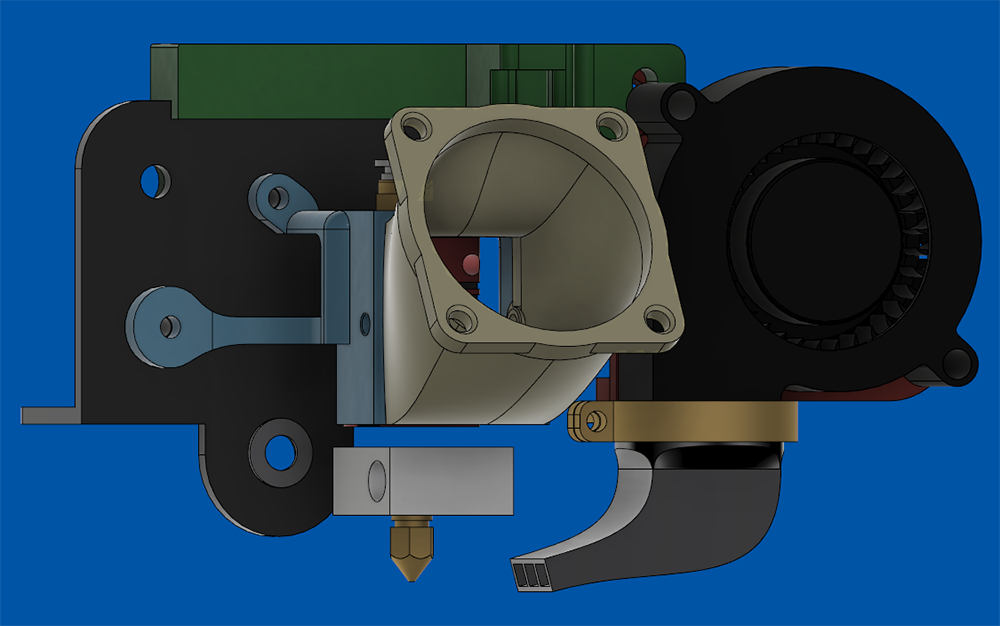
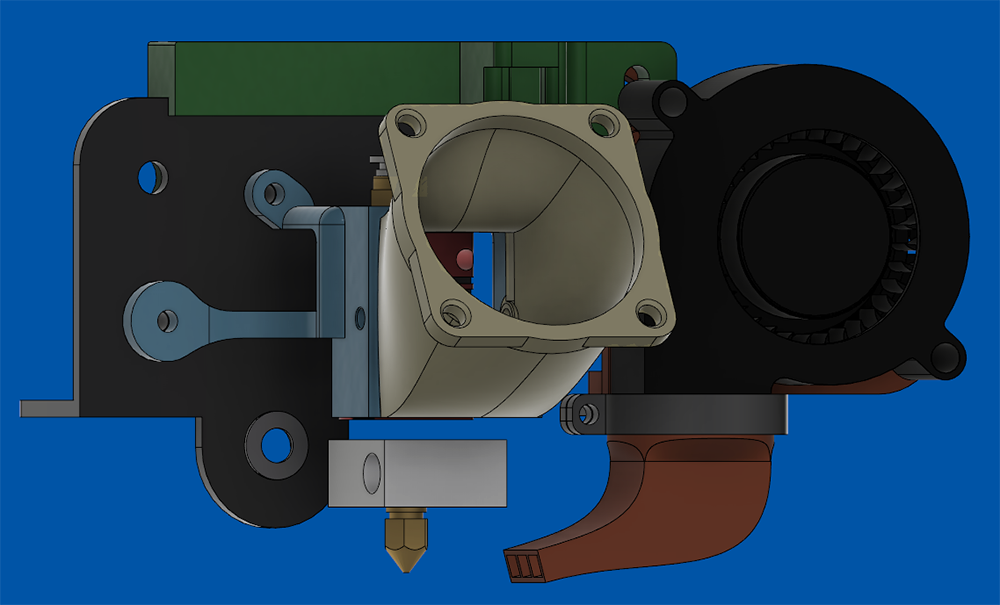
nozzle image

diff --git a/README.md b/README.md
@@ -1,4 +1,4 @@
-## Creality Fan Super Air Force System 3000 ZX 7 Platinum Pro Plus Unlimited Edition Mk 3
+## Creality Fan Super Air Force System 3000 ZX 7 Platinum Pro Plus Unlimited Edition Mk 3 (UPDATED 2019/2/27)
 
 * Compatible with a 4010/4020/4028 fan for the heat sink and a 5015 blower for part cooling.
 * Designed for the Creality Ender 3. Should work on some other Creality Printers.
@@ -12,7 +12,7 @@ This design is more complicated to print than [my other design](https://www.thin
 
 ### Screws Needed
 
-* 2 - M3x6
+* 3 - M3x6 (2 if not using the turnable nozzle)
 * 5 - M3x8-10
 * 1 - M4x25
 * 1 - M4x20
@@ -21,13 +21,17 @@ This design is more complicated to print than [my other design](https://www.thin
 
 ### Printable Parts / Part Legend
 
-| Name           | File               | Color In Images |
-| -------------- | ------------------ | :-------------: |
-| blower bracket | blower_bracket.stl |       red       |
-| blower duct    | blower_duct.stl    |     yellow      |
-| duct base      | duct_base.stl      |   light blue    |
-| fan duct       | fan_duct.stl       |      white      |
-| plate cap      | plate_cap.stl      |      green      |
+| Name                | File               | Color In Images |
+| ------------------- | ------------------ | :-------------: |
+| blower bracket      | blower_bracket.stl |       red       |
+| blower duct         | blower_duct.stl    |     yellow      |
+| duct base           | duct_base.stl      |   light blue    |
+| fan duct            | fan_duct.stl       |      white      |
+| plate cap           | plate_cap.stl      |      green      |
+| turnable nozzle     | nozzle.stl         |     orange      |
+| nozzle collar clamp | plate_cap.stl      |      gray       |
+
+There is an STL file (nozzle_support.stl) that can be used as support for the plenum area of the turnable blower nozzle. In Cura you would place this on the plate aligned with the nozzle and tell Cura to print it as support. Then you can block all support at the roof inside the nozzle or just tell Cura to only put support that is touching the build plate, which will give you a bit of support inside the nozzle, but it will be easily removable.
 
 ### Notes
 
@@ -38,6 +42,7 @@ The screw below the cable tie slot is a bit of a pain to get to. I use a magnet 
 _**Check the blower duct clearance before printing for the first time after installing.**_ Ensure that the plate cap part is fully seated, then loosen the locknut on the back of the blower bracket to allow adjustment by sliding the blower bracket up or down in the slot. Raise or lower the bracket as needed. Lower the nozzle to the bed and check that there is enough clearance between the bed and the duct.
 
 ![assembly view](https://raw.githubusercontent.com/opcow/Ender-3-fan-system-V6/master/view_main.png)
+![nozzle view](https://raw.githubusercontent.com/opcow/Ender-3-fan-system-V6/master/view_nozzle.png)
 ![printables image](https://raw.githubusercontent.com/opcow/Ender-3-fan-system-V6/master/printables.png)
 ![view 0 image](https://raw.githubusercontent.com/opcow/Ender-3-fan-system-V6/master/view_0.png)
 ![view 1 image](https://raw.githubusercontent.com/opcow/Ender-3-fan-system-V6/master/view_1.png)
